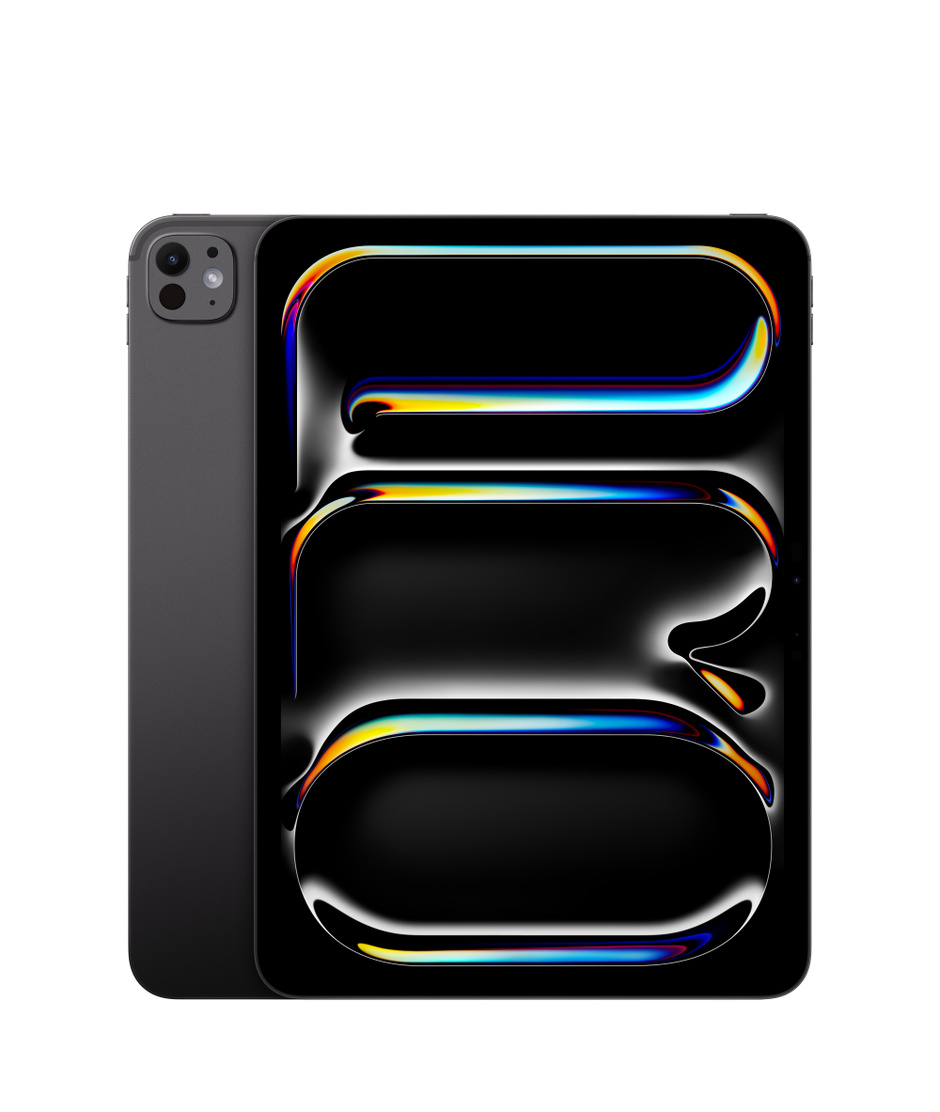
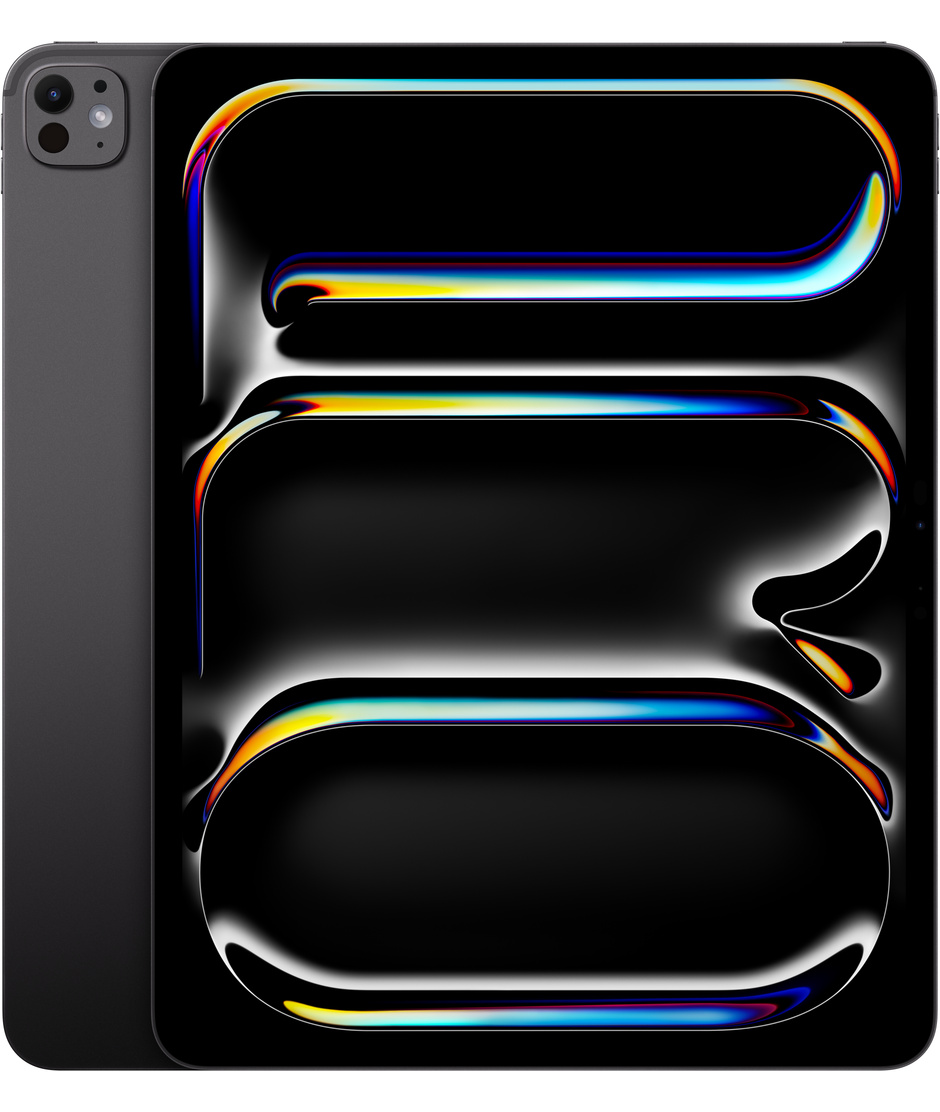
Confirm 13-inch iPad Pro and matching product image

diff --git a/content/devices.ts b/content/devices.ts
@@ -64,12 +64,12 @@ export const deviceCollection: readonly DeviceCollectionEntry[] = [
     shortName: "iPad Pro",
     brand: "Apple",
     category: "平板",
-    edition: "M5 · 深空黑色",
+    edition: "13 英寸 · M5 · 深空黑色",
     tone: "violet",
-    // https://store.storeimages.cdn-apple.com/1/as-images.apple.com/is/ipad-pro-11-select-wifi-spaceblack-202405?wid=940&hei=1112&fmt=p-jpg&qlt=95&.v=cU5SNnZmTmg3VlFoaGg3dW5WUnQvOHpCNlo3Y2trYUx2VGtnRmoxbk1mRFcvUGs3Z3lJUWVHYk5KZW9nNkdxb1Q5NVJ4OStiQklybHZqYkJwOUI0UWt2aHJVVVRvS3hUQ0EwVk8wak9Ka0h1S1B4SGsvR3pUbytFaVc1Q2x1U3Y
+    // https://store.storeimages.cdn-apple.com/1/as-images.apple.com/is/ipad-pro-13-select-wifi-spaceblack-202405?wid=940&hei=1112&fmt=p-jpg&qlt=95&.v=T1BCOVhFWUx5RnVHWklQQWdsQTFDY3pCNlo3Y2trYUx2VGtnRmoxbk1mRFcvUGs3Z3lJUWVHYk5KZW9nNkdxb1Q5NVJ4OStiQklybHZqYkJwOUI0UWt2aHJVVVRvS3hUQ0EwVk8wak9Ka0g3djBPZUREMElRMHhHVnprUmxPLzg
     image: "/devices/ipad-pro-m5-space-black.jpg",
-    imageAlt: "iPad Pro M5 深空黑色官方商品图，非本人实拍",
-    imageNote: "官方商品图 · 尺寸示意 · 非本人实拍",
+    imageAlt: "13 英寸 iPad Pro M5 深空黑色官方商品图，非本人实拍",
+    imageNote: "官方商品图 · 非本人实拍",
     sourceUrl: "https://www.apple.com.cn/ipad-pro/",
   },
   {
